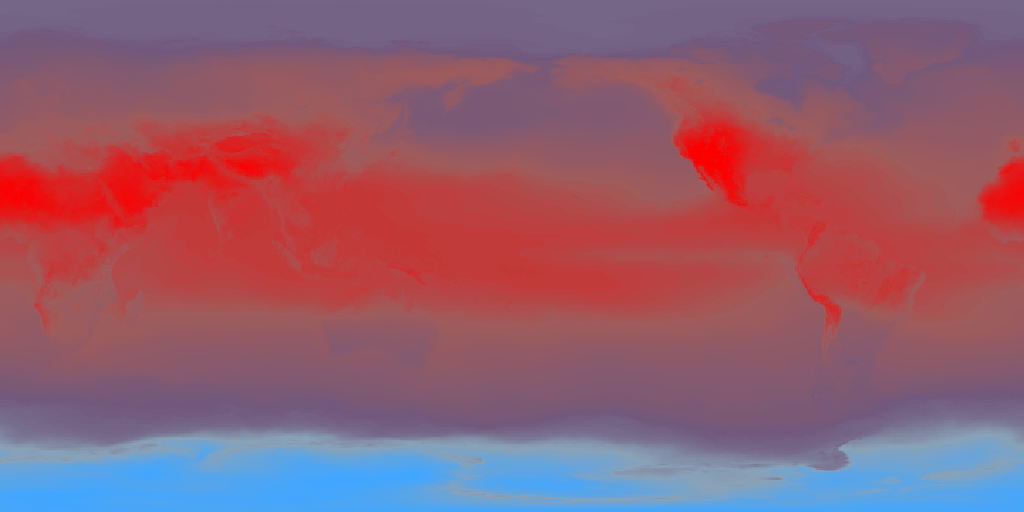
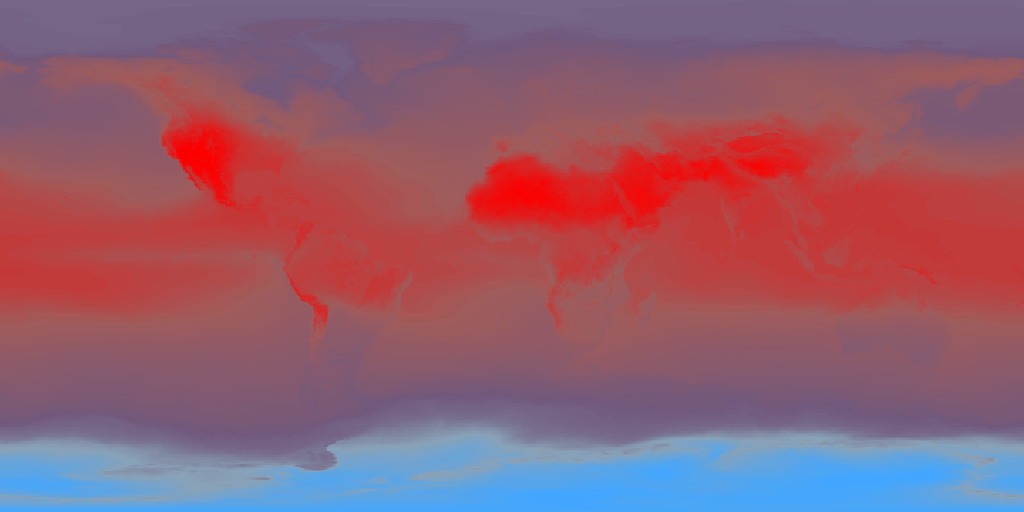
fix lat lon on atmosphere images

diff --git a/scripts/atmosphereWind/preprocessData.py b/scripts/atmosphereWind/preprocessData.py
@@ -53,6 +53,7 @@ while date <= dateEnd:
 lons = len(data[0][0][0])
 lats = len(data[0][0])
 total = lons * lats
+halfLon = lons / 2
 print "Lons (%s) x Lats (%s)" % (lons, lats)
 
 print "Calculating means..."
@@ -71,6 +72,10 @@ for m in range(12):
 
     for lat in range(lats):
         for lon in range(lons):
+            if lon < halfLon:
+                lon = lon + halfLon
+            else:
+                lon = lon - halfLon
             u, v, t = uvDataAt(lon, lat, monthData)
             i = lat * lons + lon
             monthUData.append(u)
